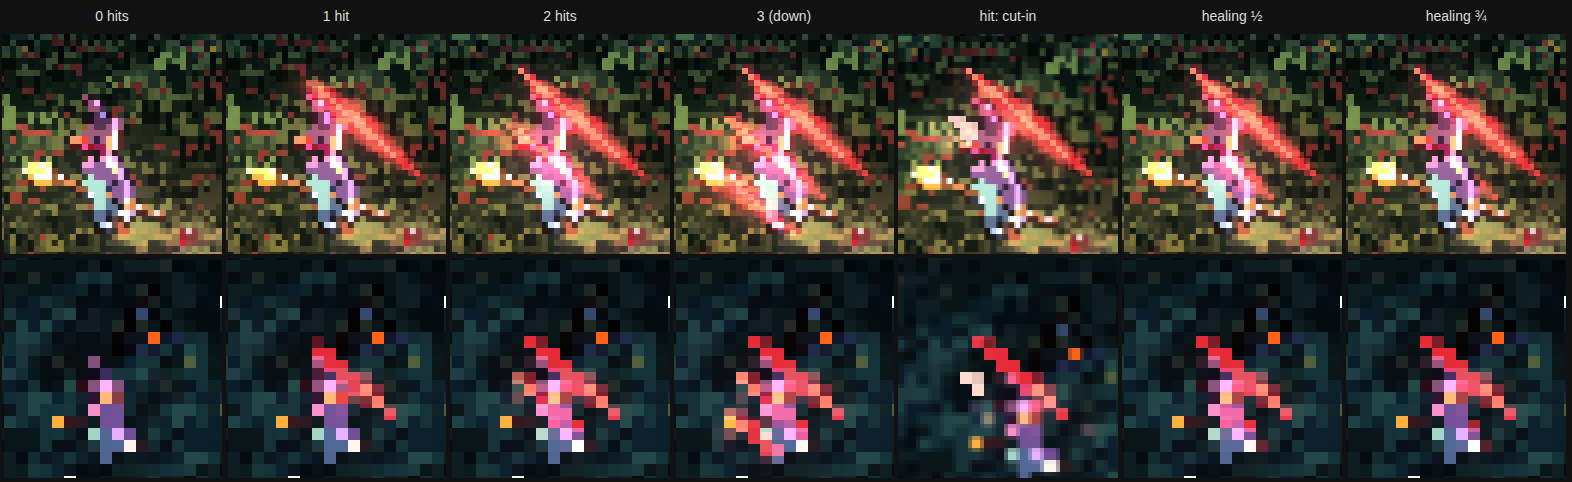
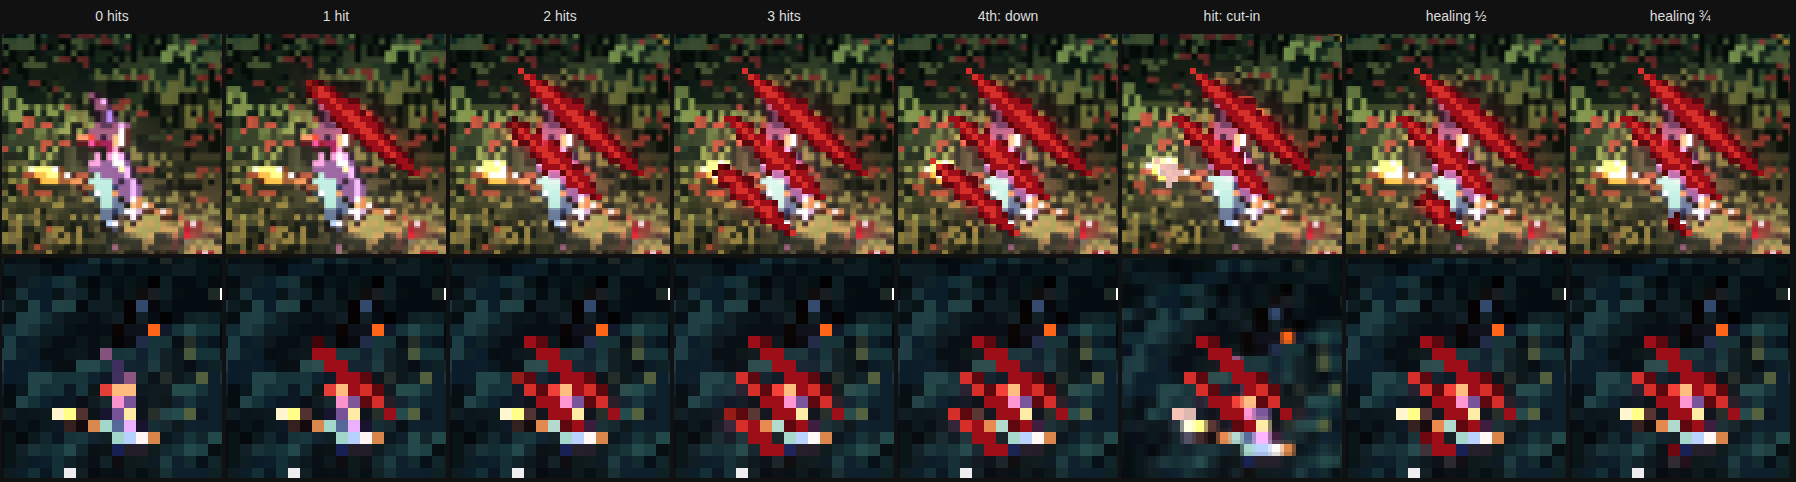
Claw slashes opaque and a deeper red, the glow matched (Ed, 2026-10-08)
Ed: "The slashes should be less opaque and darker red", then "No, sorry, I
mean the slashes should be less transparent and more opaque". The slash
pixels now draw solid over her (no screen blend, so she no longer shows
through), in deeper tones (core 214,46,40; body 158,14,24; edge 92,8,14),
and the berry-like glow in the scene is matched to that red. Before and
after crops in docs/art-review.

Claude-Session: https://claude.ai/code/session_01FVGKHvaavDn5xGsWtRTBaz

diff --git a/src/render/leash/bubbles.ts b/src/render/leash/bubbles.ts
@@ -223,7 +223,7 @@ export function drawSlashes(lv: LeashView, time: number, camera: THREE.Camera, w
     cv = document.createElement("canvas"); cv.width = SLASH_W; cv.height = SLASH_H; cv.className = "claw-slashes";
     Object.assign(cv.style, {
       position: "fixed", width: `${SLASH_W * px}px`, height: `${SLASH_H * px}px`, imageRendering: "pixelated", pointerEvents: "none", zIndex: "2", display: "none",
-      mixBlendMode: "screen", // (its red added to the scene; its glow is light in the scene itself, below)
+      // (opaque over her, Ed 2026-10-08: "less transparent and more opaque"; its glow is light in the scene itself, below)
     });
     document.body.append(cv); lv.slashCanvas = cv;
   }
@@ -249,7 +249,7 @@ export function drawSlashes(lv: LeashView, time: number, camera: THREE.Camera, w
   // the scene so the bloom takes it, along every stroke that shows: a soft halo and a hot core every couple of slash pixels,
   // placed over her body as the slashes are (a slash pixel is `m` metres there; right along the camera, up the world's up).
   const m = lv.frameH > 0 && herPx > 0 ? ((lv.hatTop - lv.feetY) / lv.frameH) * (px / herPx) : 0.05, R = SPRITE_UNIFORMS.uRight.value, dot = lv.uv(0);
-  const G = T.slashGlow ?? 1, tw = 0.9 + 0.1 * Math.sin(time * 2.3), [r, gg, b] = [0.9, 0.12, 0.15];
+  const G = T.slashGlow ?? 1, tw = 0.9 + 0.1 * Math.sin(time * 2.3), [r, gg, b] = [0.62, 0.05, 0.08]; // (the slashes' deeper red)
   slashStrokes(geo).forEach((S, i) => {
     if (i >= st.count) return;
     const newest = i === st.count - 1, t0 = newest ? st.drained : 0, t1 = newest ? st.cut : 1, flash = newest ? st.flash : 0;
@@ -259,7 +259,7 @@ export function drawSlashes(lv: LeashView, time: number, camera: THREE.Camera, w
       const sx = S.x + DX * S.len * t - cw / 2, sy = S.y + DY * S.len * t - ch / 2; // (from the canvas's middle, slash pixels)
       const x = w.x + R.x * sx * m, z = w.z + R.z * sx * m, y = lv.bodyY - sy * m;
       lv.over.add(x, y, z, S.w * 4 * m * taper, dot, r * 1.5, gg * 1.5 + flash, b * 1.5 + flash, 0.16 * G * tw * taper); // the soft halo
-      lv.over.add(x, y, z, S.w * 1.6 * m * taper, dot, 1.5 + flash, 0.25 + flash, 0.25 + flash, 0.22 * G * taper); // its warm core, just over the bloom's threshold, as a berry's
+      lv.over.add(x, y, z, S.w * 1.6 * m * taper, dot, 1.15 + flash, 0.1 + flash, 0.12 + flash, 0.22 * G * taper); // its warm core, just over the bloom's threshold, as a berry's
     }
   });
   placed(lv.v.set(w.x, lv.bodyY, w.z)).project(camera); // (over her body, wherever she flies)

diff --git a/src/render/leash/slashes.ts b/src/render/leash/slashes.ts
@@ -51,7 +51,7 @@ export function slashPixels(g = 1): SlashPixel[][] {
 }
 
 /** Colours (RGB) for the tones: a hot core, the glowing red, the torn dark-blood edge (Ed's reference, #6e1a1a). */
-export const SLASH_TONES: readonly (readonly [number, number, number])[] = [[255, 118, 92], [228, 30, 38], [118, 16, 22]];
+export const SLASH_TONES: readonly (readonly [number, number, number])[] = [[214, 46, 40], [158, 14, 24], [92, 8, 14]]; // (deeper, Ed 2026-10-08: "darker red")
 /** The most slashes she shows (her fourth hit, Ed 2026-10-08, knocks her out with no fourth slash). */
 export const SLASHES = 3;
 /** How long a new slash takes to cut in (s), and its white-hot flash. */
